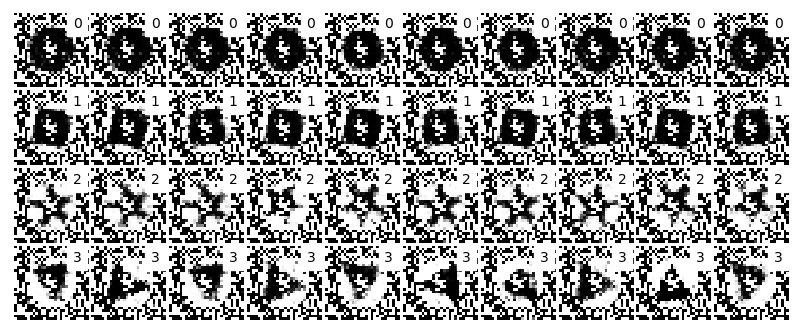
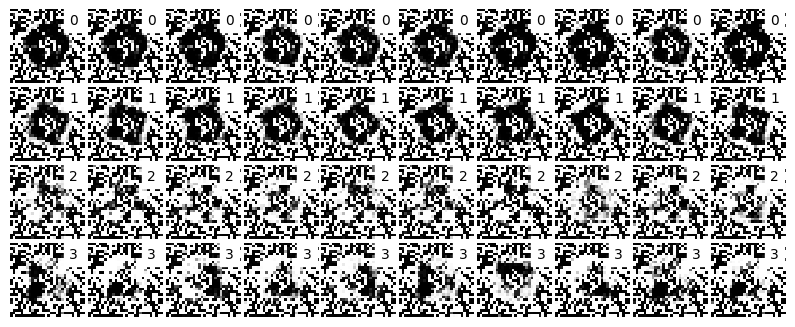
work minbatch discrimination into the ANN model, needs new hypers

diff --git a/StratGAN-ANN/model.py b/StratGAN-ANN/model.py
@@ -87,11 +87,13 @@ class StratGAN(object):
         self.D_real, self.D_real_logits = self.discriminator(self.x, 
                                                              self.y, 
                                                              reuse=False,
-                                                             batch_norm=self.config.batch_norm) # real response
+                                                             batch_norm=self.config.batch_norm,
+                                                             minibatch=self.config.minibatch_discrim) # real response
         self.D_fake, self.D_fake_logits = self.discriminator(self.G, 
                                                              self.y, 
                                                              reuse=True,
-                                                             batch_norm=self.config.batch_norm) # fake response
+                                                             batch_norm=self.config.batch_norm,
+                                                             minibatch=self.config.minibatch_discrim) # fake response
         # self.sampler = self.sampler(self.z, self.y)
 
         self.summ_D_real = tf.summary.histogram("D_real", self.D_real)
@@ -167,7 +169,8 @@ class StratGAN(object):
 
 
     def discriminator(self, _images, labels,
-                      reuse=False, batch_norm=False, is_training=True):
+                      reuse=False, batch_norm=False, 
+                      minibatch=False, is_training=True):
         
         _in_size = self.data.w_dim * self.data.h_dim
         training_true = tf.constant(True, dtype=tf.bool)
@@ -190,6 +193,10 @@ class StratGAN(object):
             d_h3 = ops.leaky_relu_layer(d_c3, _in_size // 8, 
                                         scope='d_h3', batch_norm=batch_norm,
                                         is_training=training_true)
+
+            # minibatch discrim, optional layer
+            if minibatch:
+                d_h3 = ops.minibatch_discriminator_layer(d_h3, num_kernels=5, kernel_dim=3)
 
             d_c4 = tf.concat([d_h3, labels], axis=1, name='d_c4')
             d_h4 = ops.linear_layer(d_c4, 1, 

diff --git a/StratGAN-ANN/ops.py b/StratGAN-ANN/ops.py
@@ -229,3 +229,25 @@ def linear_layer(_input, output_size, is_training, scope=None,
             return h, w, b
         else:
             return h
+
+
+def minibatch_discriminator_layer(_input, num_kernels=5, kernel_dim=3, scope='minibatch_discrim'):
+    """
+    minibatch discrimination to prevent modal collapse:
+    https://github.com/AYLIEN/gan-intro/blob/master/gan.py
+    """
+    # x = linear(_input, num_kernels * kernel_dim, scope='minibatch', stddev=0.02)
+    with tf.variable_scope(scope or 'minibatch_discrim'):
+
+        x = linear_layer(_input, num_kernels * kernel_dim, is_training=False, scope='linear', batch_norm=False)
+
+        activation = tf.reshape(x, (-1, num_kernels, kernel_dim))
+        
+        diffs = tf.expand_dims(activation, 3) - \
+            tf.expand_dims(tf.transpose(activation, [1, 2, 0]), 0)
+        
+        abs_diffs = tf.reduce_sum(tf.abs(diffs), 2)
+
+        minibatch_features = tf.reduce_sum(tf.exp(-abs_diffs), 2)
+        
+        return tf.concat([_input, minibatch_features], 1)

diff --git a/StratGAN-ANN/main.py b/StratGAN-ANN/main.py
@@ -33,6 +33,7 @@ config.epoch = 5
 config.learning_rate = 0.002            # optim learn rate
 config.beta1 = 0.6                      # momentum
 config.batch_norm = True
+config.minibatch_discrim = True
 config.gener_iter = 3                   # times to update generator per discriminator update
 config.noisy_inputs = False              # add some small noise to the input images
 config.flip_inputs = False              # whether to flip the black white pixels
